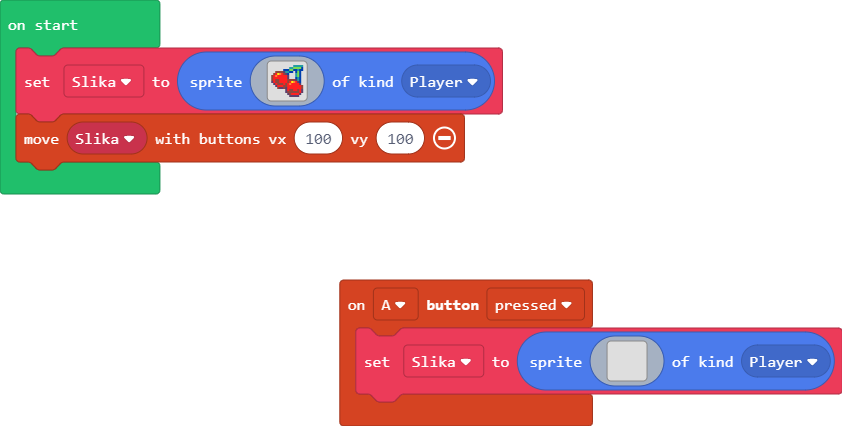
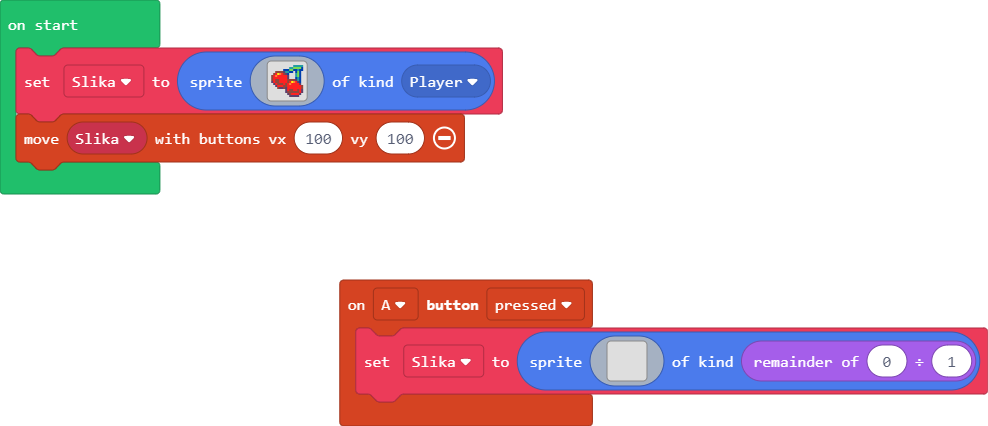
Update main.blocks, main.ts

Changed region(s): [[0.3397, 0.6408, 1.0, 1.0], [0.0, 0.0, 0.6176, 0.4577]]

diff --git a/main.ts b/main.ts
@@ -16,7 +16,7 @@ controller.A.onEvent(ControllerButtonEvent.Pressed, function () {
 . . . . . . . . . . . . . . . . 
 . . . . . . . . . . . . . . . . 
 . . . . . . . . . . . . . . . . 
-`, SpriteKind.Player)
+`, 0 % 1)
 })
 let Slika: Sprite = null
 Slika = sprites.create(img`
